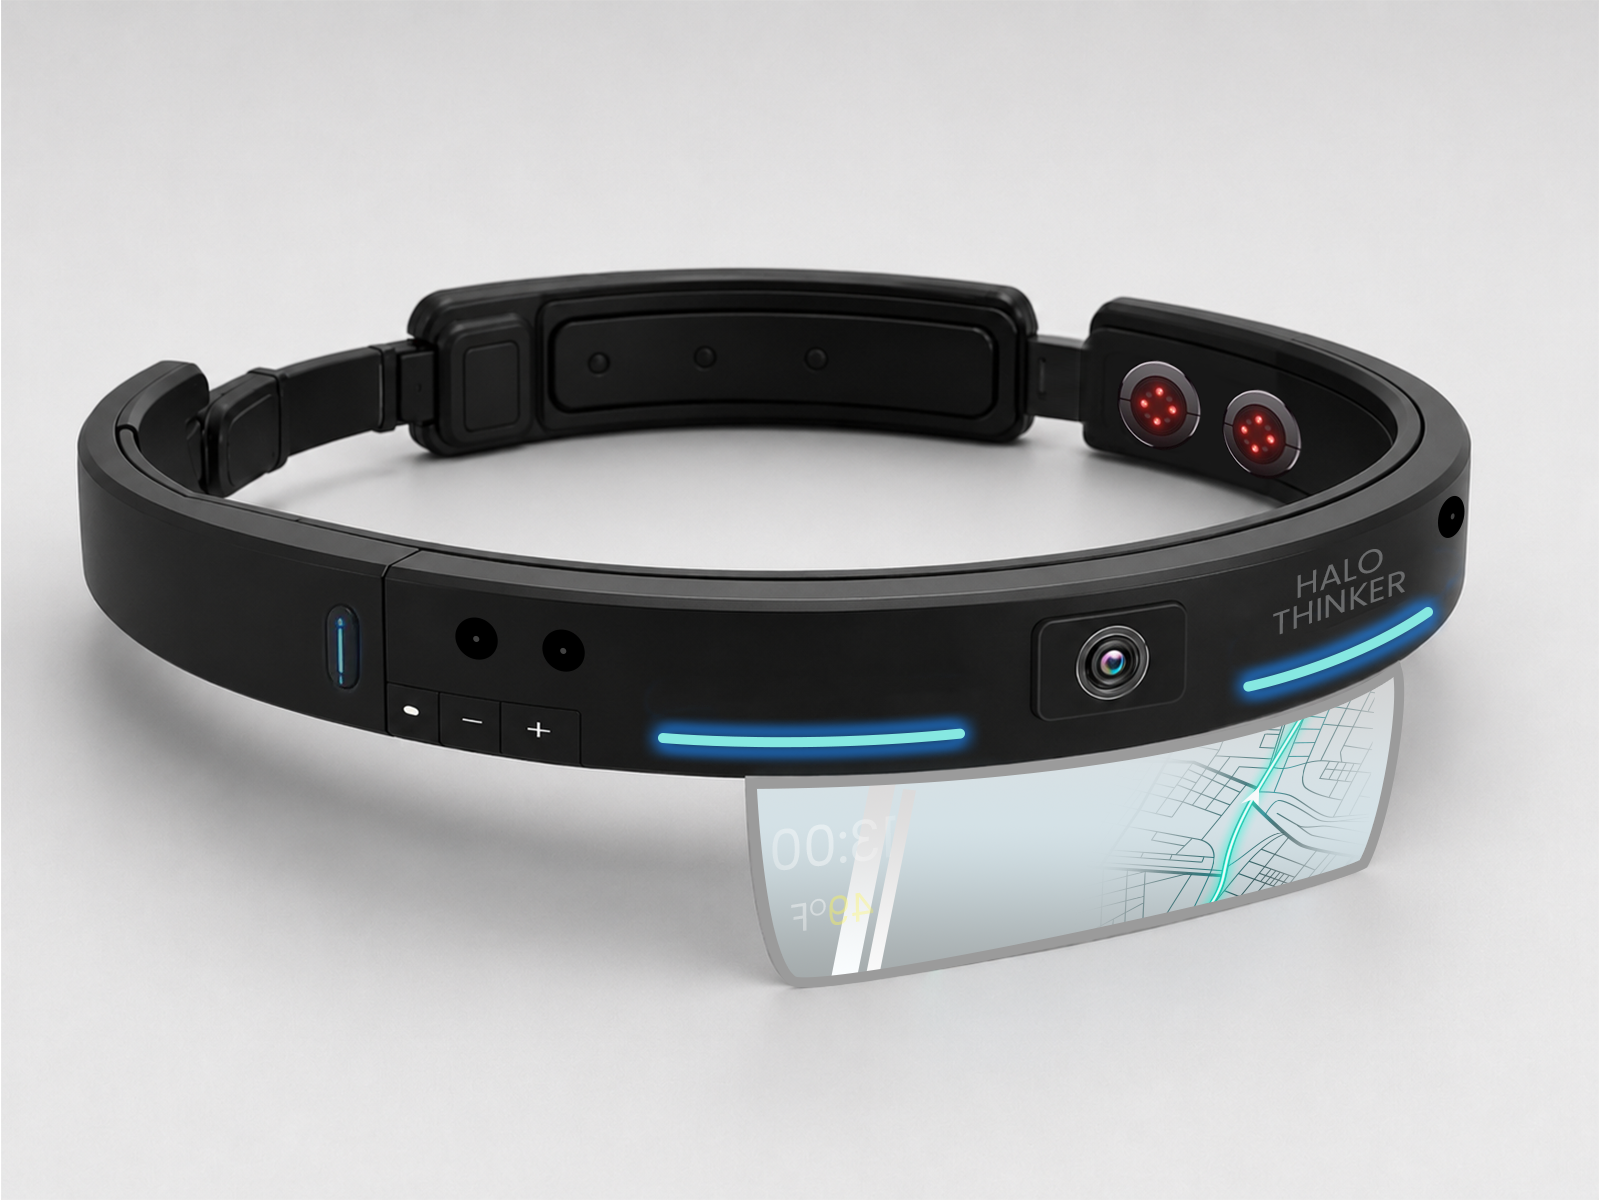
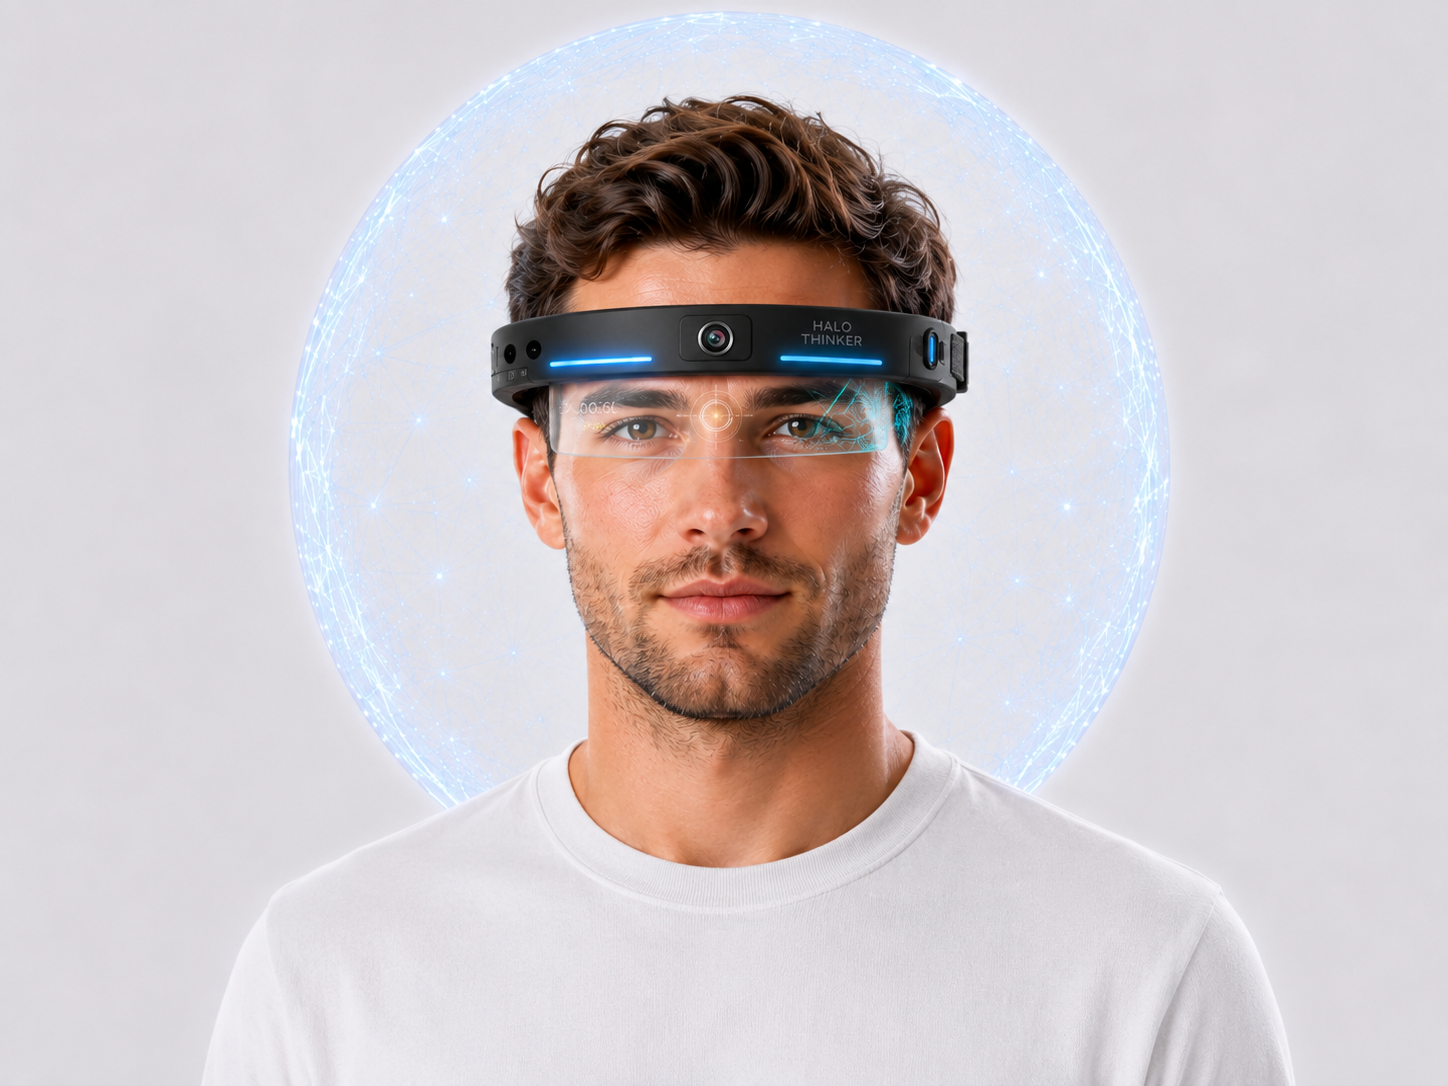
...

diff --git a/app/Cx/ThinkSection.js b/app/Cx/ThinkSection.js
@@ -17,35 +17,43 @@ const FEATURES = [
 export default function ThinkSection() {
   return (
     <section className="w-full bg-white py-12 sm:py-16">
-      <div className="mx-auto w-full max-w-7xl px-5 sm:px-8 lg:px-12">
-        <div className="grid grid-cols-1 items-center gap-10 md:grid-cols-2 md:gap-8 lg:gap-12">
-          <div className="order-2 text-center md:order-1 md:text-left">
-            <h2 className="text-3xl font-extrabold uppercase tracking-tight text-neutral-950 sm:text-4xl lg:text-5xl">
-              One Mind Halo
-            </h2>
-            <p className="mt-3 text-sm font-medium text-neutral-700 sm:text-base">
-              Thinker • Learner • Protector
-            </p>
-            <p className="mx-auto mt-5 max-w-md text-sm leading-relaxed text-neutral-600 md:mx-0 sm:text-base">
-              An advanced wearable concept that enhances cognitive performance,
-              supports brain activity, and provides invisible protection for a
-              healthier, smarter you.
-            </p>
-          </div>
-
-          <div className="order-1 flex justify-center md:order-2 md:justify-end">
-            <Image
-              src="/bg-remove-halo.png"
-              alt="One Mind Halo ring"
-              width={900}
-              height={520}
-              className="h-auto w-full max-w-md md:max-w-lg lg:max-w-xl"
-              priority={false}
-            />
-          </div>
+      <div className="mx-auto flex w-full max-w-7xl flex-col items-center px-5 sm:px-8 lg:px-12">
+        <div className="flex w-full flex-col items-center text-center">
+          <h2 className="text-4xl font-extrabold uppercase tracking-tight text-neutral-950 sm:text-5xl lg:text-6xl">
+            One Mind Halo
+          </h2>
+          <p className="mt-3 text-sm font-medium text-neutral-700 sm:text-base">
+            Thinker • Learner • Protector
+          </p>
+          <p className="mx-auto mt-5 max-w-xl text-sm leading-relaxed text-neutral-600 sm:text-base">
+            An advanced wearable concept that enhances cognitive performance,
+            supports brain activity, and provides invisible protection for a
+            healthier, smarter you.
+          </p>
         </div>
 
-        <ul className="mt-10 grid grid-cols-2 gap-x-4 gap-y-6 sm:grid-cols-3 sm:gap-y-8 md:mt-14 lg:grid-cols-6">
+        <div className="mt-8 flex w-full flex-row flex-wrap items-center justify-center gap-0 sm:mt-10">
+          <Image
+            src="/halo-design-rework-07-removebg-preview.png"
+            alt="Halo Thinker product view"
+            width={900}
+            height={520}
+            unoptimized
+            className="h-auto w-1/2 max-w-xs sm:max-w-sm lg:max-w-md"
+            priority={false}
+          />
+          <Image
+            src="/halo-design-rework-05-removebg-preview.png"
+            alt="Halo Thinker alternate product view"
+            width={900}
+            height={520}
+            unoptimized
+            className="h-auto w-1/2 max-w-xs sm:max-w-sm lg:max-w-md"
+            priority={false}
+          />
+        </div>
+
+        <ul className="mt-10 grid w-full grid-cols-2 gap-x-4 gap-y-6 sm:grid-cols-3 sm:gap-y-8 md:mt-14 lg:grid-cols-6">
           {FEATURES.map(({ icon: Icon, label }) => (
             <li
               key={label}

diff --git a/app/Cx/Hero.js b/app/Cx/Hero.js
@@ -11,11 +11,13 @@ const FEATURES = [
     icon: Brain,
     title: "Smarter Thinking",
     desc: "Enhance focus, memory and mental clarity.",
+    points: ["Light patterns speak to the brain and send info."],
   },
   {
     icon: ShieldPlus,
     title: "Health Protection",
     desc: "Invisible shield against viruses, germs & infections.",
+    points: ["Pepper Spray"],
   },
 ];
 
@@ -44,7 +46,7 @@ export default function Hero() {
   return (
     <section className="relative min-h-screen w-full overflow-hidden">
       <Image
-        src="/banner.png"
+        src="/halo-design-onman-01.png"
         alt=""
         fill
         priority
@@ -106,7 +108,7 @@ export default function Hero() {
 
       {/* Headline block: left aligned to match reference */}
       <div
-        className="absolute left-5 top-48 z-20 w-[min(40rem,calc(100%-2rem))] sm:left-10 sm:top-52 sm:w-[min(42rem,calc(100%-3rem))] md:left-14 md:top-56 md:w-[min(44rem,calc(100%-4rem))] lg:left-20 lg:top-64 lg:w-160"
+        className="absolute left-5 top-36 z-20 w-[min(40rem,calc(100%-2rem))] sm:left-10 sm:top-40 sm:w-[min(42rem,calc(100%-3rem))] md:left-14 md:top-44 md:w-[min(44rem,calc(100%-4rem))] lg:left-20 lg:top-48 lg:w-160"
         data-aos="fade-up"
         data-aos-delay="220"
       >
@@ -120,11 +122,11 @@ export default function Hero() {
 
           <p className="mt-5 max-w-116 text-sm font-normal leading-relaxed text-black drop-shadow-[0_1px_10px_rgba(255,255,255,0.4)] sm:text-[1.02rem]">
             Experience a futuristic HALO wearable designed for smarter thinking,
-            wireless neural support, and invisible health protection.
+            wireless neural support, and invisible health, and crime protection.
           </p>
 
           <div className="mt-8 flex flex-col gap-6 sm:flex-row sm:gap-10">
-            {FEATURES.map(({ icon: Icon, title, desc }) => (
+            {FEATURES.map(({ icon: Icon, title, desc, points }) => (
               <div key={title} className="flex max-w-60 items-start gap-4">
                 <Icon
                   className="mt-0.5 h-11 w-11 shrink-0 stroke-[1.5] text-[#007bff] sm:h-12 sm:w-12"
@@ -134,9 +136,12 @@ export default function Hero() {
                   <p className="text-sm font-bold text-black sm:text-base">
                     {title}
                   </p>
-                  <p className="mt-1 text-xs leading-relaxed text-black sm:text-sm">
-                    {desc}
-                  </p>
+                  <ul className="mt-1 list-disc space-y-1 pl-4 text-xs leading-relaxed text-black sm:text-sm">
+                    <li>{desc}</li>
+                    {points.map((point) => (
+                      <li key={point}>{point}</li>
+                    ))}
+                  </ul>
                 </div>
               </div>
             ))}

diff --git a/app/Cx/MindSection.js b/app/Cx/MindSection.js
@@ -10,7 +10,7 @@ const COLUMNS = [
       "Neural energy field",
       "Wireless data transfer",
     ],
-    image: "/halo-design-rework-05.png",
+    image: "/halo-design-rework-05.png?v=3",
     alt: "Halo learning features",
     text: "Info App & Capability — if you don't have time to read, just see image or text on your cell phone and download directly all wireless into your memory with our new special app. It's good enough, better than a brain. (Limitations to memory download)",
   },
@@ -21,7 +21,7 @@ const COLUMNS = [
       "Protection against viruses",
       "Germs & infection defense",
     ],
-    image: "/halo-design-rework-07.png",
+    image: "/halo-design-rework-07.png?v=3",
     alt: "Halo health shield features",
     text: "An invisible health shield wraps around you in real time — blocking viruses, germs, and infections while you focus on living smarter, healthier, and protected from everyday threats.",
   },
@@ -32,7 +32,7 @@ const COLUMNS = [
       "360° view",
       "Disarm anyone",
     ],
-    image: "/halo-design-onman-01.png",
+    image: "/halooo.png?v=3",
     alt: "Halo protection features",
     text: "Built-in personal defense with a 360° lens view and pepper spray capability — designed to help you stay aware, stay ready, and disarm threats before they reach you.",
   },
@@ -67,6 +67,7 @@ export default function MindSection() {
                   src={image}
                   alt={alt}
                   fill
+                  unoptimized
                   className="object-cover object-center"
                   sizes="(max-width: 768px) 100vw, (max-width: 1024px) 50vw, 33vw"
                   priority={false}

diff --git a/app/Cx/LastSection.js b/app/Cx/LastSection.js
@@ -67,10 +67,11 @@ export default function LastSection() {
     <section className="w-full bg-white ">
       <div className="relative w-full">
         <Image
-          src="/banner-22.png"
+          src="/bannerrr.png?v=3"
           alt="One Mind Halo"
           width={1920}
           height={1080}
+          unoptimized
           priority={false}
           className="block h-auto w-full"
         />
